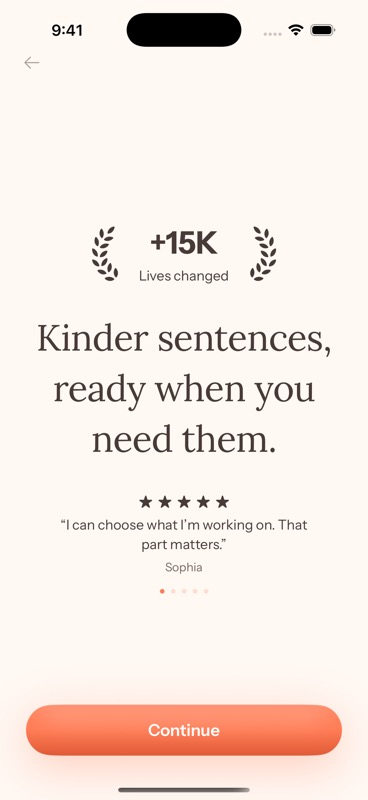
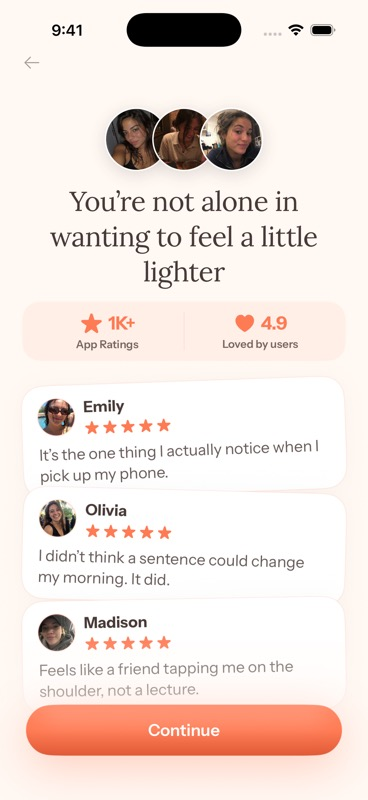
Refresh Glow paywall preview with portrait reviews

diff --git a/docs/native-paywall-analytics.md b/docs/native-paywall-analytics.md
@@ -15,7 +15,7 @@ New eligible installs use **80% testimonials + team note / 20% original sequence
 | `versy_reminder` | Versy reminder flow | 10% | Trial introduction → reminder timing → Versy paywall |
 | `versy_reminder_note` | Versy reminder flow + note | 40% | Testimonials → team note → Versy reminder flow |
 
-The two base flows remain 50/50. Both IAM and manifest-audio participate. The treatment reuses Glow's testimonial screen, followed by a cream card headed “A note from the team,” localized in English, German and Spanish. Both new screens use Continue. The note includes Cancel anytime. Neither screen requests an App Store review or starts a purchase. Existing trial, reminder-choice, purchase, recovery and Weekly behavior stays with its base flow; the two Versy variants both retain View all plans.
+The two base flows remain 50/50. Both IAM and manifest-audio participate. The treatment restores the original `ReviewSupportScreen` layout (from before `41bdb49`): overlapping profile pictures, rating stats, and three portrait review cards, using Glow's current cream/orange styling. It is followed by a cream card headed “A note from the team,” localized in English, German and Spanish. Both new screens use Continue. The note includes Cancel anytime. Neither screen requests an App Store review or starts a purchase. Existing trial, reminder-choice, purchase, recovery and Weekly behavior stays with its base flow; the two Versy variants both retain View all plans.
 
 `GlowPaywallFlowAssignment` saves `onboarding_paywall_flow_v2` under `glow.onboarding.paywallFlow.v2.<environment>` and publishes scalar JSON as `gpf1_onboarding_paywall_flow_v2`. Schema remains `1`; allocation is `10_40_10_40` in the table's order. Records retain environment, variant, frozen language, randomized, assignedAt, updatedAt, optional viewedAt/completedAt, reminderLeadDays, initial priceVariant, and onboardingJourney. Timestamps are Unix milliseconds.
 
